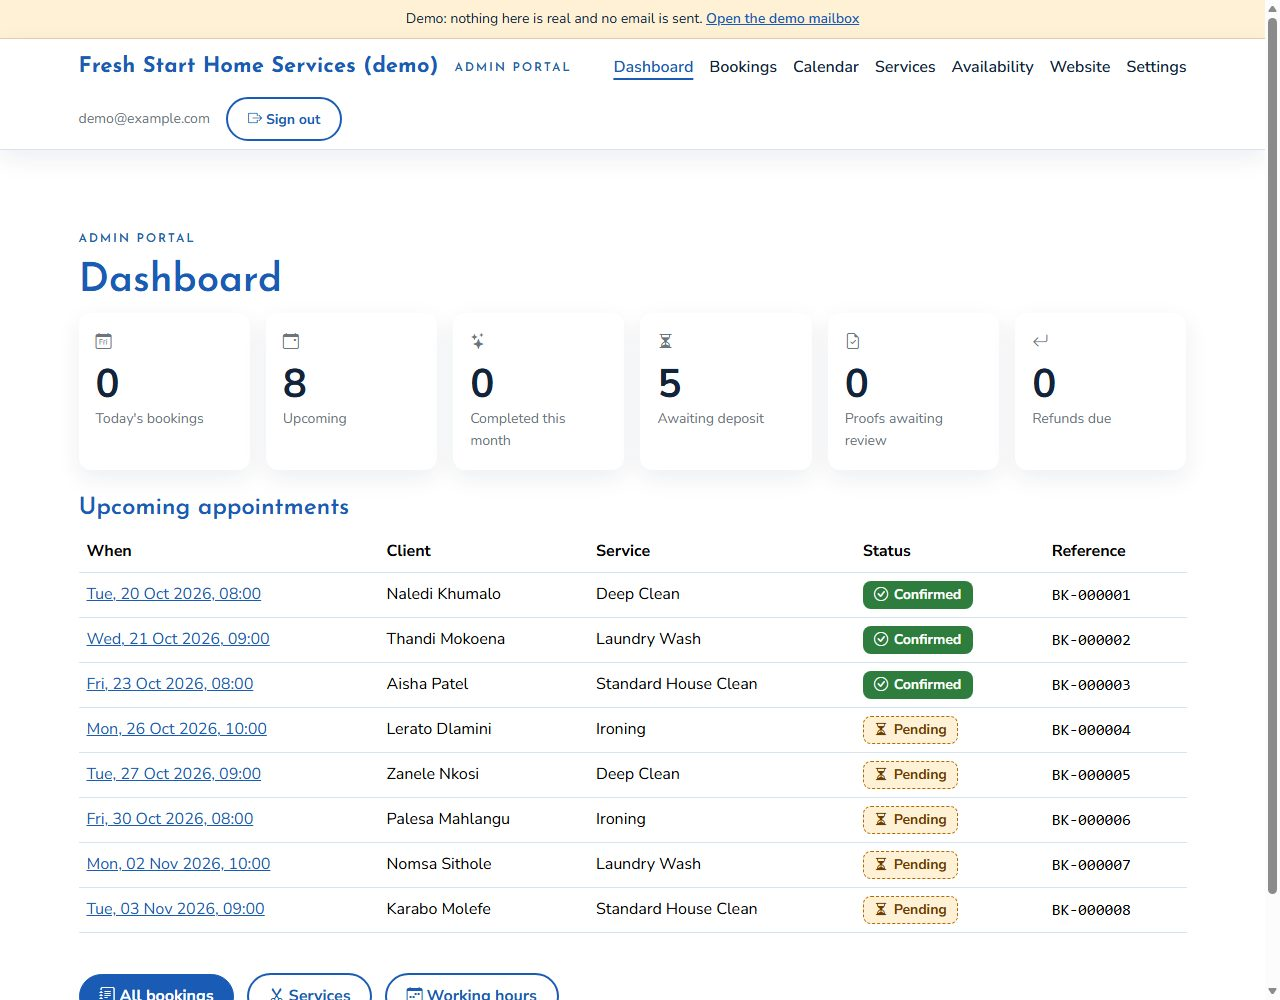
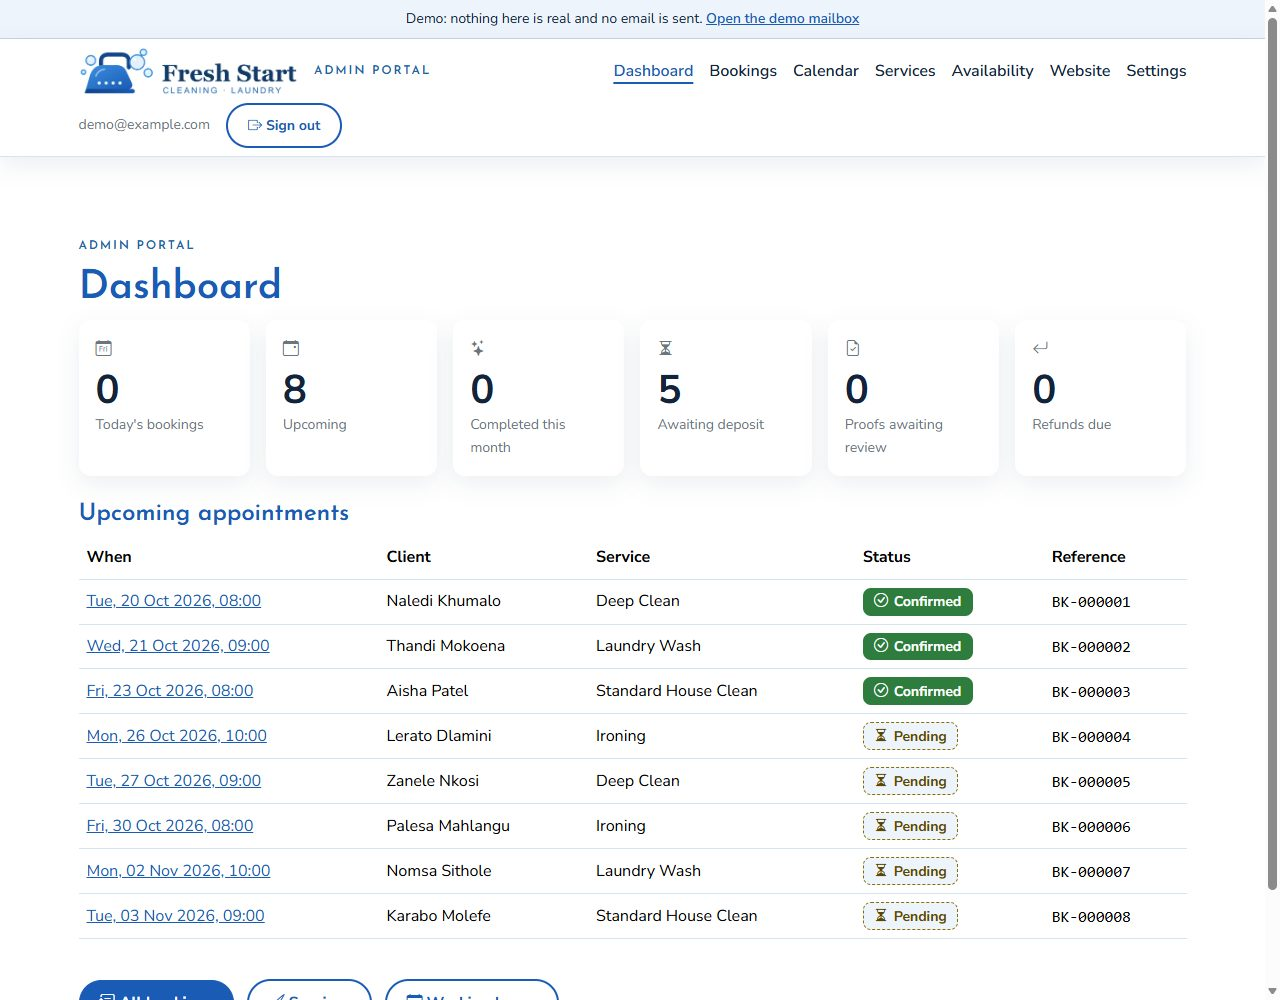
Retake the screenshots for Fresh Start (#174)

diff --git a/README.md b/README.md
@@ -47,10 +47,9 @@ Then open <http://localhost:3000>. It starts the app and PostgreSQL, creates the
 
 **Your brand, not ours.** The project ships with a neutral name and no logo. The owner sets the business name in Settings and uploads a logo under Website, and the header, footer, home page and every email follow, with no code to change. See [BRANDING.md](BRANDING.md).
 
-| | |
-| --- | --- |
-| ![Without a logo, the business name is shown as text](docs/images/home.jpg) | ![With a logo uploaded in the portal](docs/images/home-logo.jpg) |
-| *Out of the box: the name as text* | *After uploading a logo (a sample one here)* |
+![The home page of the example business, Fresh Start, with its sample logo, which the demo loads for you](docs/images/home.jpg)
+
+*The example business, Fresh Start, with its sample logo (bubbles and an iron). A real business uploads its own.*
 
 More screens: the [demo mailbox](docs/images/demo-mailbox.jpg), [bookings](docs/images/admin-bookings.jpg), [one booking](docs/images/admin-booking.jpg), [services](docs/images/admin-services.jpg), [website editor](docs/images/admin-website.jpg).
 

diff --git a/BRANDING.md b/BRANDING.md
@@ -15,10 +15,9 @@ Sign in to the portal (`/admin/`) and:
 
 There is nothing to edit in the code. Changes show on the site within a minute.
 
-| Before | After |
+| The site, with the sample logo | Where the owner uploads it |
 | --- | --- |
-| ![The name as text](docs/images/home.jpg) | ![With a logo uploaded](docs/images/home-logo.jpg) |
-| ![The Website page with the logo uploader](docs/images/admin-website.jpg) | |
+| ![The home page with a logo](docs/images/home.jpg) | ![The Website page with the logo uploader](docs/images/admin-website.jpg) |
 
 ## A little more
 
